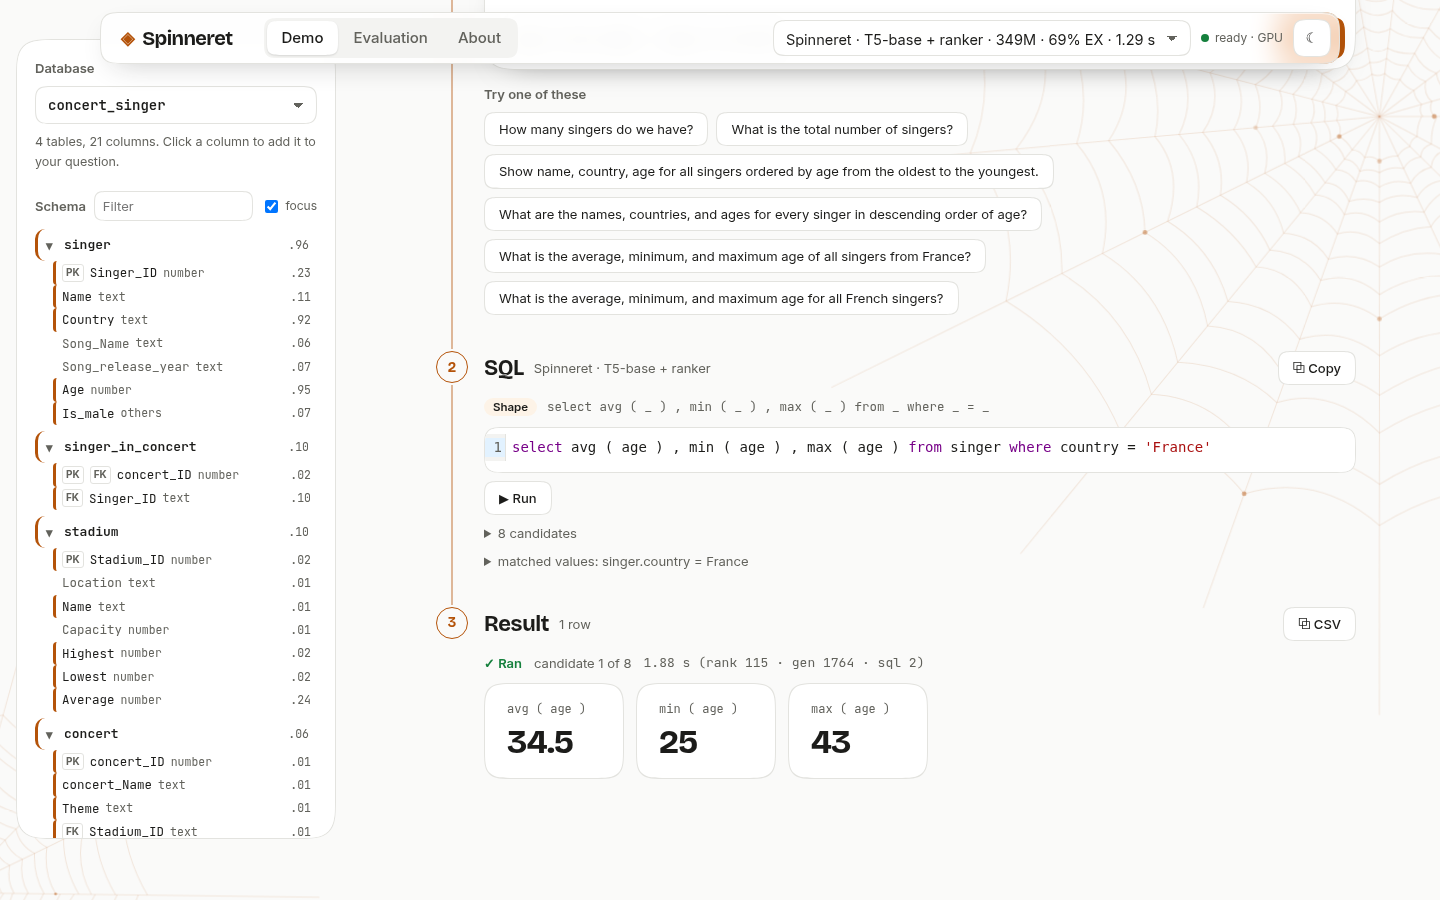
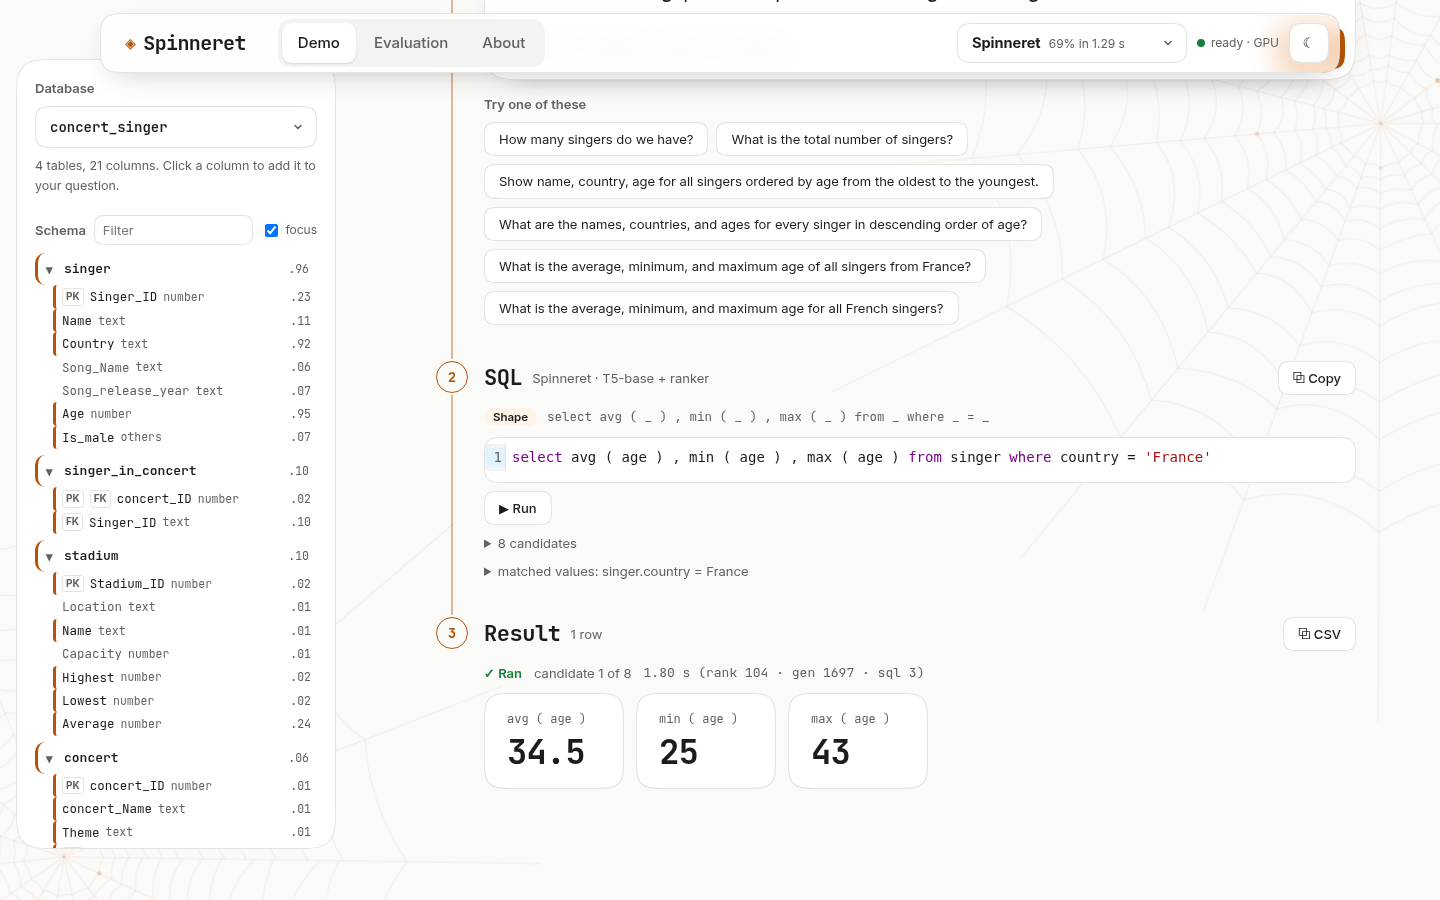
README: fresh screenshots of the landing page, demo and evaluation

diff --git a/README.md b/README.md
@@ -4,7 +4,7 @@
 
 [![MIT licence](https://img.shields.io/badge/licence-MIT-b45309)](LICENSE)
 
-![Spinneret's landing page: "Ask in English. Get SQL that runs." above a real question with threads from each word to the SQL the model wrote for it](docs/img/landing.png)
+![Spinneret's landing page: the monospace headline "Ask in English. Get SQL that runs." beside a real question threaded word by word to the SQL the model wrote for it](docs/img/landing.png)
 
 ## What it does
 
